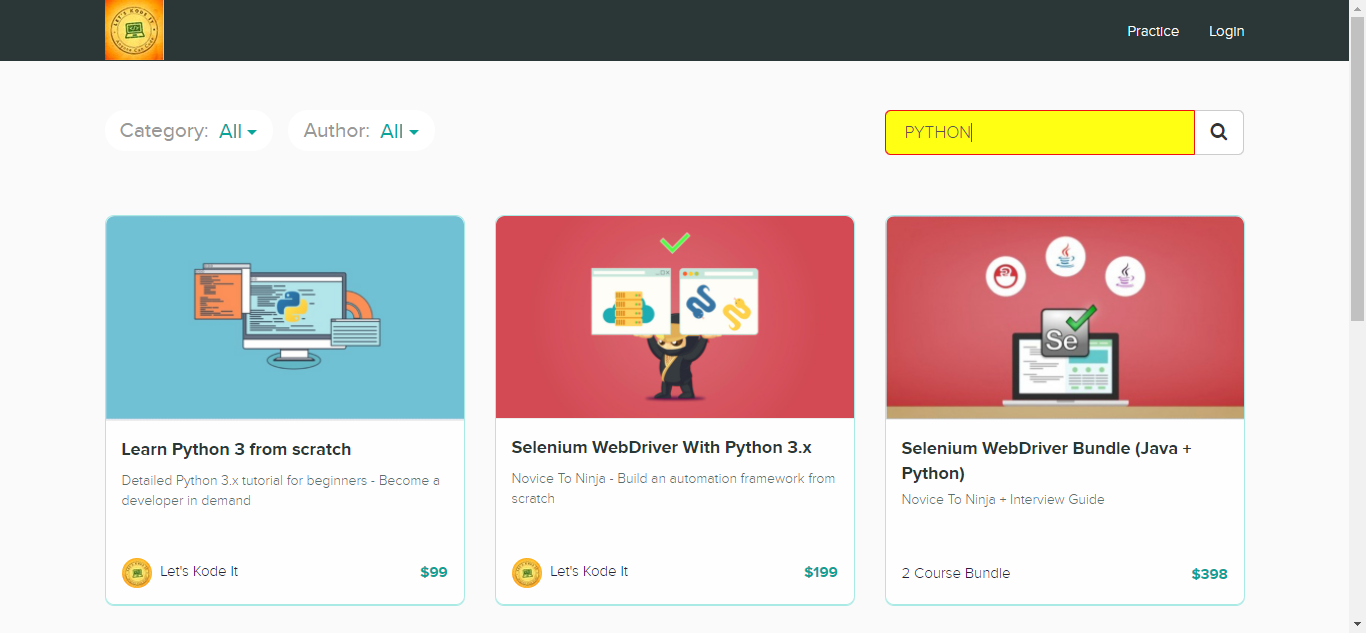
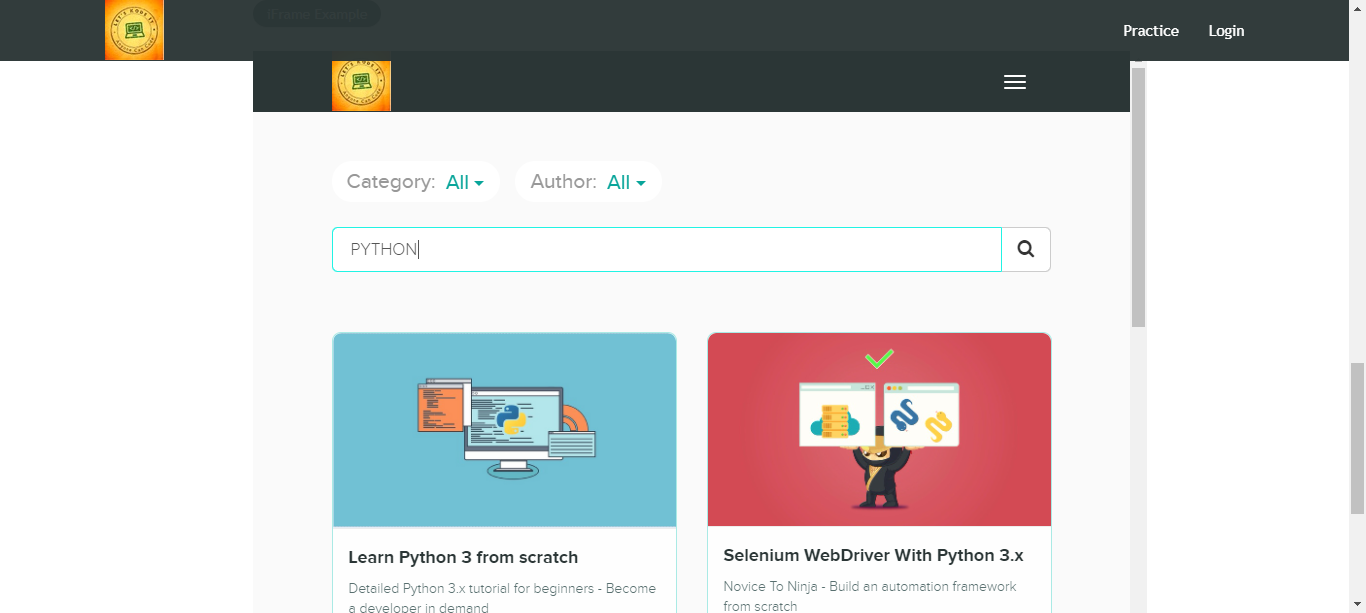
Updated COmmit

diff --git a/BasicWebFiles/Actions.py b/BasicWebFiles/Actions.py
@@ -1,0 +1,39 @@
+from time import sleep
+
+from selenium import webdriver
+from selenium.webdriver import ActionChains
+from selenium.webdriver.common.by import By
+
+from Drivers.BrowserLaunch import BrowserLaunch
+from Drivers.BrowserLaunch import ElementsandData
+from BasicWebFiles.HandyWrappers import HandyWrappers, time
+
+
+class Actions:
+    def test(self):
+        driver = webdriver.Chrome(executable_path=ElementsandData.Chrome)
+        driver.maximize_window()
+        hw = HandyWrappers(driver)
+        driver.get(ElementsandData.PracticeURL)
+        hover = hw.getelement2(By.ID,'mousehover')
+        #driver.execute_script('arguments[0].scrollIntoView(true);',hover)
+        Actions = ActionChains(driver)
+        Actions.move_to_element(hover).perform()
+        Actions.move_to_element(hw.getelement2(By.XPATH,"//a[text()='Top']")).click().perform()
+        driver.get("https://jqueryui.com/droppable/")
+        driver.switch_to.frame(0)
+        Actions2 = ActionChains(driver)
+        fromele = hw.getelement2(By.XPATH,"//div[@id='draggable']")
+        to = hw.getelement2(By.XPATH,"//div[@id='droppable']")
+        #Actions2.drag_and_drop(fromele,to).perform()
+        Actions2.click_and_hold(fromele).move_to_element(to).release(to).perform()
+        driver.get("https://jqueryui.com/slider/")
+        driver.switch_to.frame(0)
+        sliaction = ActionChains(driver)
+        sliderelem = hw.getelement2(By.XPATH, "//div[@id='slider']/span[1]")
+        sliaction.drag_and_drop_by_offset(sliderelem,100,0).perform()
+
+
+
+S =Actions()
+S.test()

diff --git a/BasicWebFiles/Frames.py b/BasicWebFiles/Frames.py
@@ -1,0 +1,26 @@
+from time import sleep
+
+from selenium import webdriver
+from selenium.webdriver.common.by import By
+
+from Drivers.BrowserLaunch import BrowserLaunch
+from Drivers.BrowserLaunch import ElementsandData
+from BasicWebFiles.HandyWrappers import HandyWrappers
+
+class FrameHandling:
+    def test(self):
+        driver = webdriver.Chrome(executable_path=ElementsandData.Chrome)
+        driver.maximize_window()
+        hw = HandyWrappers(driver)
+        driver.get(ElementsandData.PracticeURL)
+        legend = hw.getelement2(By.XPATH,"//legend[text()='iFrame Example']")
+        driver.execute_script('arguments[0].scrollIntoView(true);',legend)
+        driver.switch_to.frame("iframe-name")
+        courses = hw.getelement2(By.ID,'search-courses')
+        courses.send_keys("PYTHON")
+        hw.takeScreenshot()
+        driver.switch_to.default_content()
+
+A= FrameHandling()
+A.test()
+

diff --git a/BasicWebFiles/JavascriptPopup_Alerts.py b/BasicWebFiles/JavascriptPopup_Alerts.py
@@ -1,0 +1,25 @@
+from selenium.webdriver.common.by import By
+
+from Drivers.BrowserLaunch import BrowserLaunch
+from Drivers.BrowserLaunch import ElementsandData
+from BasicWebFiles.HandyWrappers import HandyWrappers
+from time import sleep
+
+from selenium import webdriver
+
+class Alerts:
+    def test(self):
+        driver = webdriver.Chrome(executable_path=ElementsandData.Chrome)
+        driver.maximize_window()
+        hw = HandyWrappers(driver)
+        driver.get(ElementsandData.PracticeURL)
+        hw.getelement2(By.ID,'alertbtn').click()
+        Alert1 = driver.switch_to.alert
+        Alert1.accept()
+        hw.getelement2(By.ID, 'confirmbtn').click()
+        #hw.takeScreenshot()
+        Alert2 = driver.switch_to.alert
+        Alert2.dismiss()
+
+J = Alerts()
+J.test()
